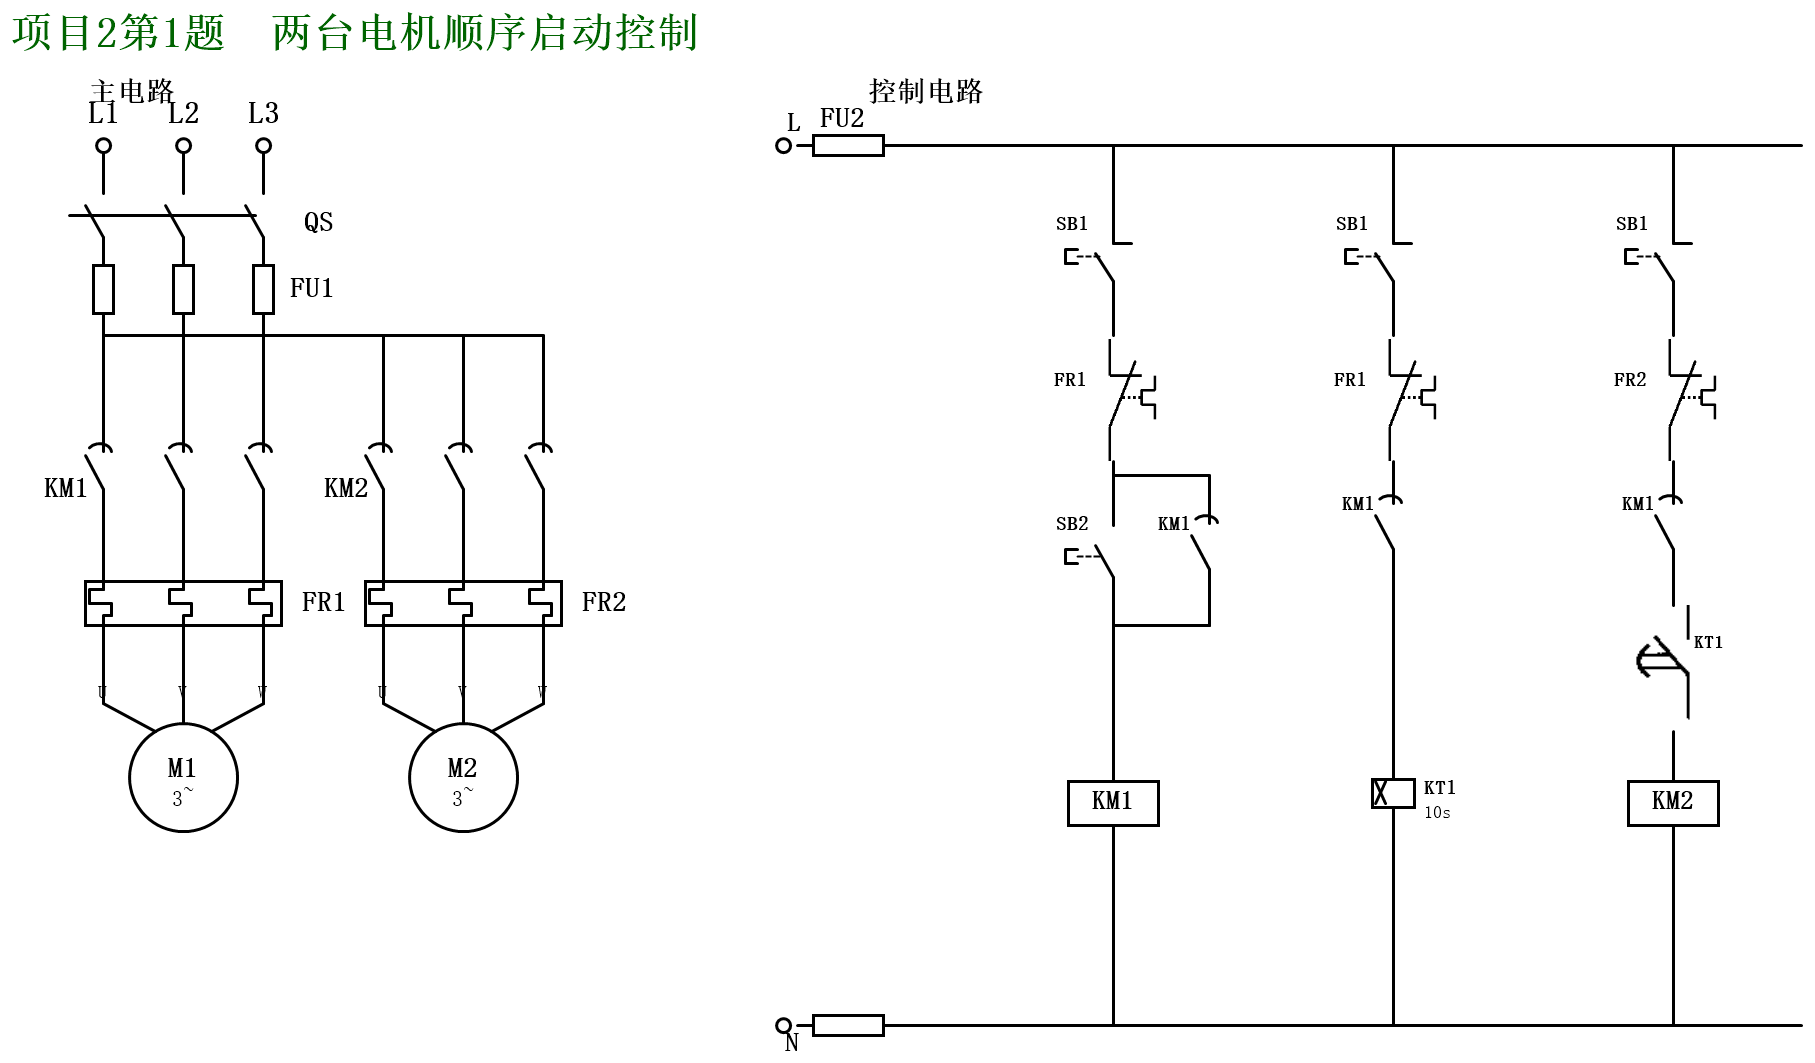
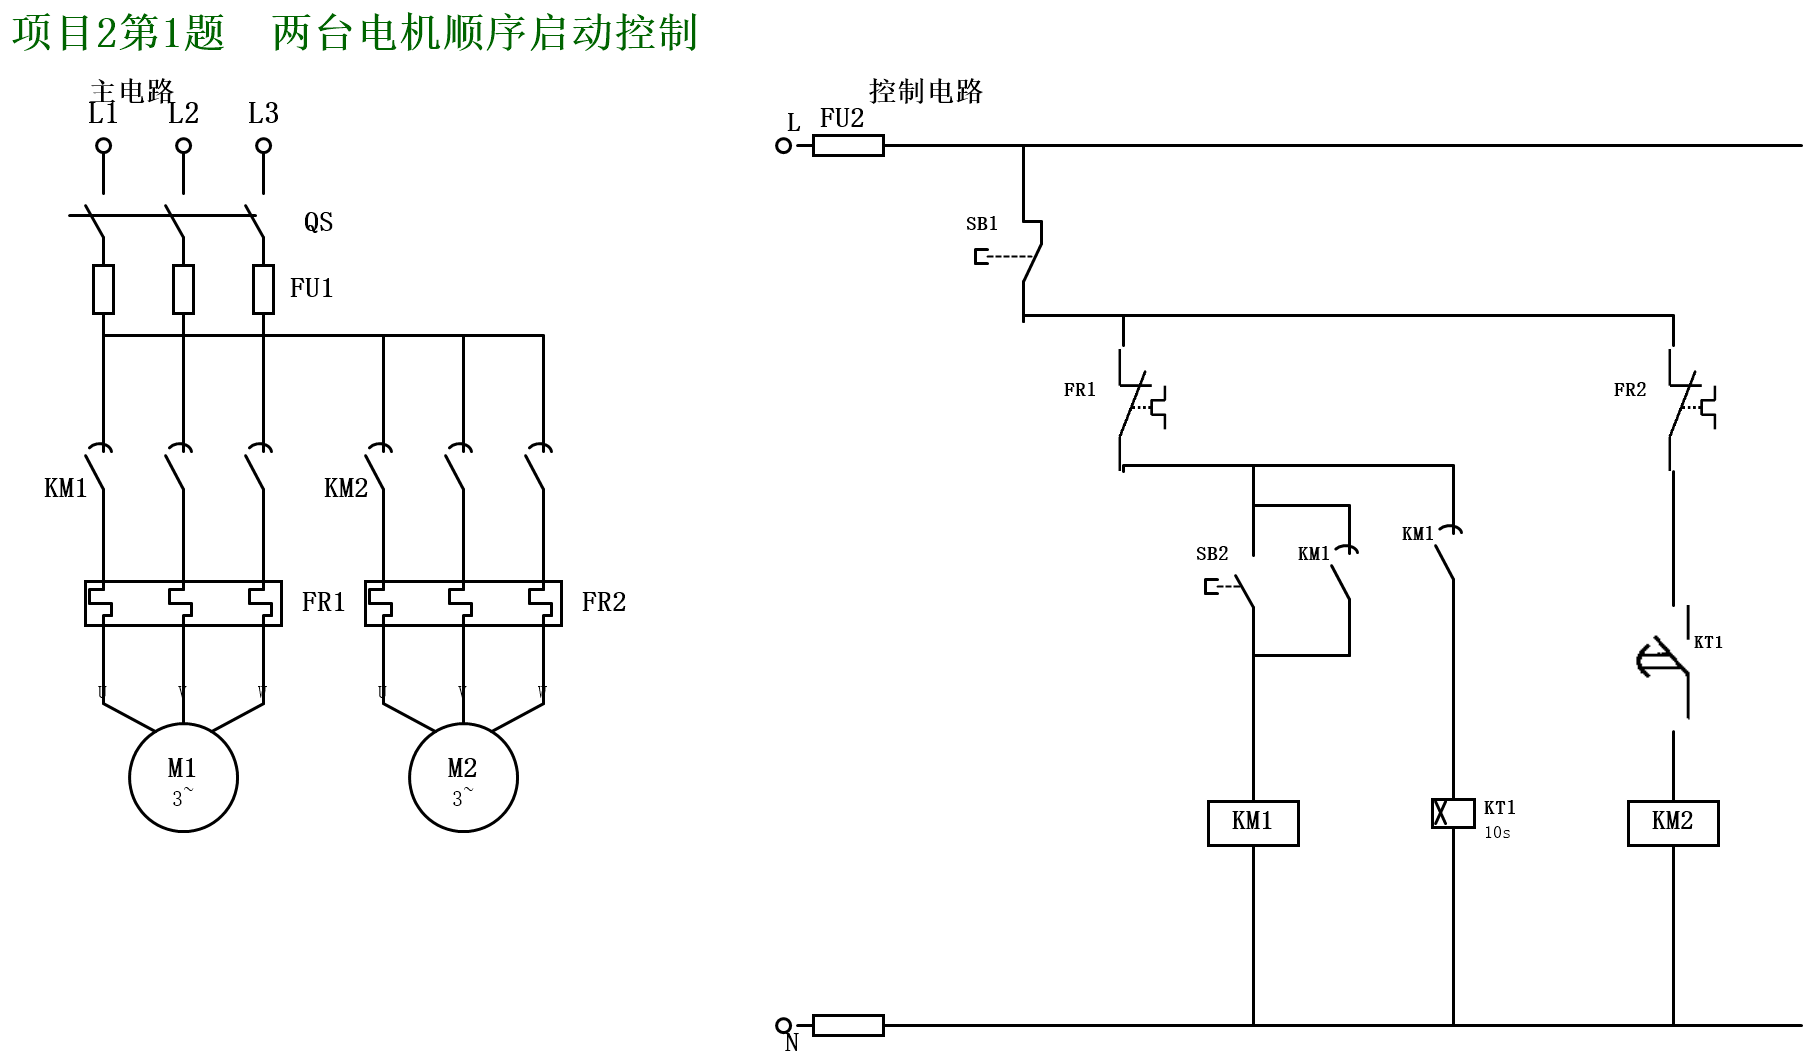
Refine control contact symbols and redraw schematics

diff --git a/技术日志.md b/技术日志.md
@@ -49,3 +49,9 @@
 第二十三条经验是，材料清单里的数量必须按“独立器件”来统计，不能按原理图里画出来的内部单元去数。像三相热继电器 `FR`，主回路里通常会把三相热元件都画出来，所以一个 `FR1` 看上去会像三个小单元；再加上控制回路里还会出现它的辅助触点，如果不先把“主器件”和“附属触点/内部热元件”分开，就很容易把两只三相热继电器误数成六个甚至更多。更稳的写法是在清单里直接写成“`三相热继电器`”，这样读图和备料的人都会按器件只数来理解。
 
 第二十四条经验是，仓库能不能让人一眼看明白，本身也是交付质量的一部分。像这次这种课程作业型项目，如果仓库首页没有 `README`，别人点进来只会看到几张图、一个脚本和一堆资料文件，很难马上分清“最终成品”“题目来源”“符号依据”和“可重复生成逻辑”。更稳的做法是让 `README` 先把这四件事讲清楚，再把最终图直接挂在首页，这样无论是老师、同学还是后面返工的自己，打开仓库第一眼就知道该先看什么、这些文件各自扮演什么角色。
+
+第二十五条经验是，课程里的控制电路如果最后真要落到实验台上接线，就不能把只有一组物理触点的公共器件在多条支路里“逻辑复制”着画。像项目2第1题这种两台电机顺序启动控制，`SB1` 停止按钮和 `FR1` 热继常闭触点如果分别在三条、两条支路里各画一遍，逻辑上看着像是“每条支路都受它控制”，但实际接线时马上会撞上一个问题：材料清单里给的是一个停止按钮和一个热继电器常闭保护触点，不是三组 `SB1`、两组 `FR1`。更稳的画法是把真正公共的器件放到分支点之前的共用干线上，再让分支从它们后面展开，这样图纸表达的既是控制逻辑，也是实际可接的连接结构。以后只要题目既要求画原理图、又要求按图搭接，就要顺手检查一遍：图上每一个被重复画出来的按钮触点、热继触点，到底是“真的有多组物理触点”，还是只是为了省事把公共元件画散了；如果是后者，就应该改回共用干线结构。
+
+第二十六条经验是，课程参考图里那种靠一小截短线区别“按钮常开/常闭”的符号，不适合直接缩放成很小的贴图再塞进总图里。像这次 `SB1` 常闭按钮，原始掩膜单看没错，但缩到成品图尺寸以后，表示闭合关系的那一小截短线几乎淹没在斜线和引线里，结果老板第一眼看到的就是“这不全是常开吗”。更稳的做法是，对这种判别依赖细节的基础符号，优先用脚本直接按几何关系画线，而不是只靠缩放位图；哪怕样式略朴素，也要把“常闭比常开多出来的闭合短线”画得足够清楚。以后只要一个符号的功能差异主要靠一两笔细节体现，就应该优先保证辨识度，而不是优先追求和课件裁图一模一样。
+
+第二十七条经验是，常闭触点不是“在常开符号旁边多添一笔装饰短线”就算完成了，必须让动触点和固定触点在几何上真的接上。像这次 `SB1` 的问题，前一版代码虽然额外画了一小段横线，自以为是在表示“常闭”，但那一小段横线和斜触点根本没有交点，所以老板一句“闭在哪儿”就把问题点穿了。更稳的做法是，在生成符号时直接检查闭合关系是不是通过共享端点或明显交点成立，而不是凭肉眼觉得“旁边多了一笔，应该就像常闭了”。这种错误很隐蔽，因为代码层面看似画得比常开多，图面上却没有真正形成闭合含义。
